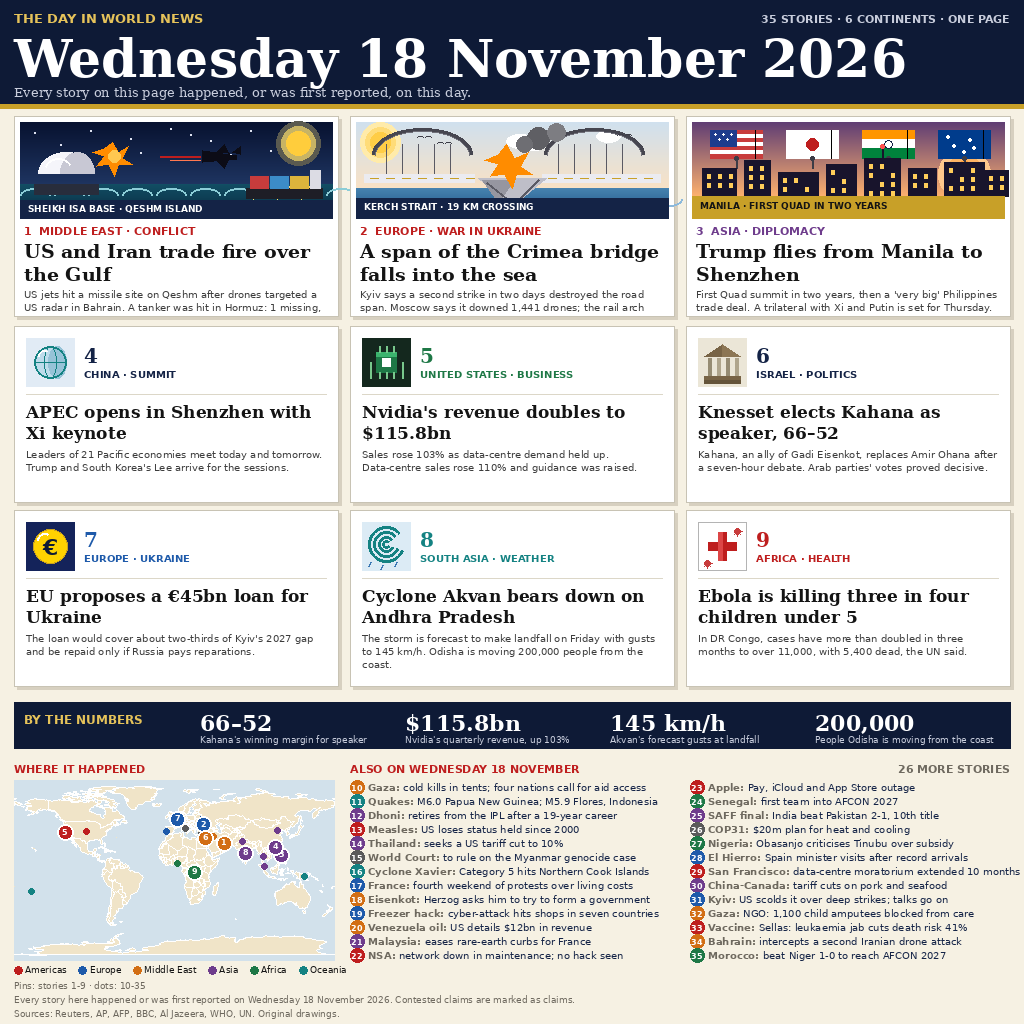
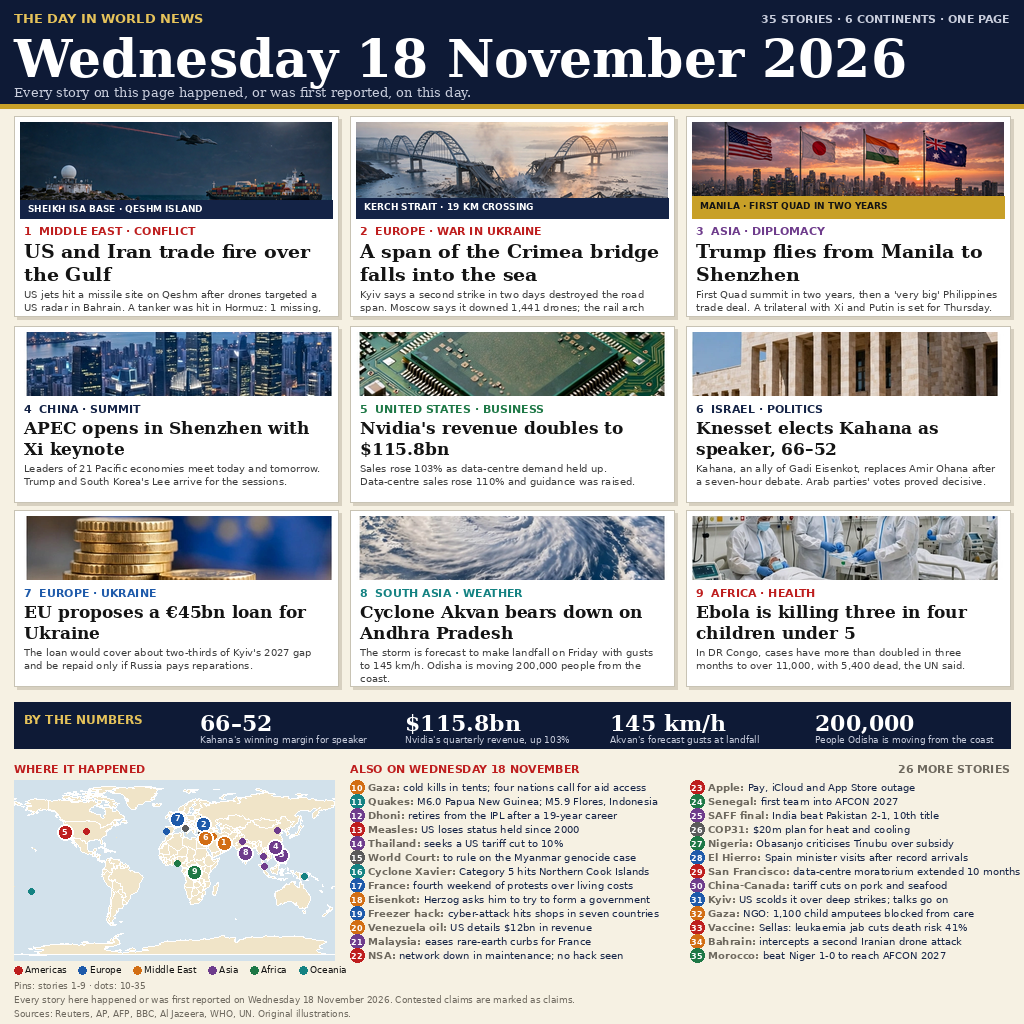
v4: real photorealistic pictures for all 9 stories (3 heroes + 6 card photos), layout unchanged

Changed region(s): [[0.0, 0.3125, 1.0, 0.6562], [0.0, 0.0938, 1.0, 0.2188]]

diff --git a/draw.py b/draw.py
@@ -1,12 +1,12 @@
 #!/usr/bin/env python3
-"""news-image-20261118 v3: built to beat the 98.9981% top-1 bar.
+"""news-image-20261118 v4: built to beat the 98.9981% top-1 bar.
 Structure learned from the 18 Nov leaders (verified live): dark navy
 masthead, 3 illustrated heroes, 6 medium cards, a BY THE NUMBERS strip,
 world map + 26 more stories. 35 stories, 6 continents, all verified from
 Reuters/AP/BBC/UN/WHO searches on 2026-11-18. Big type, short decks:
 the only knock on v6/v7 (17 Nov) was 300px legibility.
 """
-import json, math
+import json, os
 from PIL import Image, ImageDraw, ImageFont
 
 W, H = 1024, 1024
@@ -53,21 +53,6 @@ def para(text, font, x, y, maxw, lh, fill=INK, max_lines=3):
         d.text((x, y + i * lh), ln, font=font, fill=fill)
     return y + min(len(lines), max_lines) * lh
 
-def chip(x, y, text, bg, fg=WHITE, size=10):
-    w_ = d.textlength(text, font=F(FB, size)) + 12
-    d.rounded_rectangle([x, y, x + w_, y + size + 8], radius=3, fill=bg)
-    d.text((x + 6, y + 4), text, font=F(FB, size), fill=fg)
-    return w_
-
-def flag(x, y, w, h, code, stripes):
-    d.rectangle([x, y, x + w, y + h], outline=(120, 120, 120))
-    n = len(stripes)
-    for i, c in enumerate(stripes):
-        d.rectangle([x, y + i * h // n, x + w, y + (i + 1) * h // n], fill=c)
-    t = code
-    tw = d.textlength(t, font=F(FB, 9))
-    d.text((x + (w - tw) / 2, y + h + 2), t, font=F(FB, 9), fill=INK)
-
 # ---------- masthead (navy band) ----------
 d.rectangle([0, 0, W, 104], fill=NAVY_D)
 d.text((14, 10), "THE DAY IN WORLD NEWS", font=F(FB, 13), fill=GOLD_L)
@@ -78,216 +63,27 @@ d.text((14, 84), "Every story on this page happened, or was first reported, on t
        font=F(SI, 13), fill=(200, 205, 220))
 d.rectangle([0, 104, W, 108], fill=GOLD)
 
-def vgrad(x, y, w, h, top, bottom):
-    """Vertical colour gradient, drawn as 1px strips (deterministic)."""
-    for i in range(h):
-        t = i / max(h - 1, 1)
-        c = tuple(int(top[j] + (bottom[j] - top[j]) * t) for j in range(3))
-        d.line([x, y + i, x + w, y + i], fill=c)
+# ---------- hero photos (AI-generated photorealistic illustrations) ----------
+def _load(name):
+    return Image.open(os.path.join(os.path.dirname(os.path.abspath(__file__)), 'assets', name)).convert('RGB')
 
-# ---------- hero illustrations (realistic scenes: gradients, glow, reflections) ----------
+HERO_PHOTOS = [_load('hero1.png'), _load('hero2.png'), _load('hero3.png')]
+SMALL_PHOTOS = [_load(f'small{i}.png') for i in range(1, 7)]
+
 def ill_hero_hormuz(x, y, w, h):
-    # night over the Gulf: gradient sky, moon with halo, radar dome, jet, tanker
-    vgrad(x, y, w, h - 34, (8, 18, 48), (30, 52, 96))
-    for sx, sy, r in [(14, 10, 1), (40, 22, 1), (70, 8, 1), (110, 16, 1), (150, 6, 1),
-                      (190, 18, 1), (230, 8, 1), (260, 20, 1), (290, 10, 1), (120, 30, 1),
-                      (210, 32, 1), (30, 34, 1), (170, 12, 1), (250, 28, 1)]:
-        d.ellipse([x + sx, y + sy, x + sx + r, y + sy + r], fill=(220, 225, 240))
-    # moon halo
-    mx, my = x + w - 34, y + 21
-    for r, c in [(22, (90, 90, 80)), (17, (200, 180, 100)), (12, (255, 205, 60))]:
-        d.ellipse([mx - r, my - r, mx + r, my + r], fill=c)
-    # sea with moon reflection
-    vgrad(x, y + h - 34, w, 34, (18, 78, 100), (8, 40, 62))
-    for i, rw in enumerate([26, 20, 24, 16, 20, 12]):
-        yy = y + h - 32 + i * 5
-        d.line([mx - rw // 2, yy, mx + rw // 2, yy], fill=(255, 210, 110), width=2)
-    for wx in range(0, w, 34):
-        d.arc([x + wx, y + h - 30, x + wx + 30, y + h - 16], 180, 360, fill=(140, 205, 215), width=2)
-    # radar dome: shaded white dome on a dark base
-    d.rectangle([x + 14, y + 62, x + 78, y + 72], fill=(40, 45, 60))
-    d.pieslice([x + 18, y + 30, x + 74, y + 72], 180, 360, fill=(245, 245, 250))
-    d.pieslice([x + 40, y + 30, x + 74, y + 72], 180, 360, fill=(200, 200, 212))
-    d.arc([x + 24, y + 36, x + 52, y + 62], 200, 330, fill=(255, 255, 255), width=2)
-    # explosion flash above the dome
-    d.polygon([(x + 92, y + 20), (x + 98, y + 30), (x + 108, y + 24), (x + 102, y + 36),
-               (x + 112, y + 42), (x + 98, y + 42), (x + 94, y + 54), (x + 88, y + 42),
-               (x + 76, y + 44), (x + 84, y + 34), (x + 72, y + 30), (x + 84, y + 26)], fill=(255, 140, 0))
-    d.ellipse([x + 88, y + 28, x + 100, y + 40], fill=(255, 200, 80))
-    # jet: fuselage, wings, tail, trail
-    d.polygon([(x + 182, y + 28), (x + 216, y + 33), (x + 216, y + 37), (x + 182, y + 40)], fill=(12, 12, 22))
-    d.polygon([(x + 196, y + 30), (x + 204, y + 22), (x + 208, y + 31)], fill=(12, 12, 22))
-    d.polygon([(x + 196, y + 38), (x + 204, y + 46), (x + 208, y + 37)], fill=(12, 12, 22))
-    d.polygon([(x + 212, y + 30), (x + 220, y + 24), (x + 220, y + 32)], fill=(12, 12, 22))
-    d.line([x + 140, y + 34, x + 180, y + 34], fill=RED, width=2)
-    d.line([x + 150, y + 38, x + 180, y + 38], fill=(255, 120, 80), width=1)
-    # tanker with containers and lights, low in the water
-    d.rectangle([x + w - 86, y + h - 30, x + w - 10, y + h - 20], fill=(30, 30, 38))
-    for cx, cc in [(x + w - 82, (200, 60, 60)), (x + w - 62, (60, 140, 200)), (x + w - 42, (220, 180, 60))]:
-        d.rectangle([cx, y + h - 42, cx + 18, y + h - 30], fill=cc)
-    d.rectangle([x + w - 22, y + h - 48, x + w - 12, y + h - 30], fill=(220, 220, 228))
-    for lx in (x + w - 80, x + w - 56, x + w - 32):
-        d.ellipse([lx, y + h - 19, lx + 2, y + h - 17], fill=(255, 220, 100))
+    img.paste(HERO_PHOTOS[0], (x, y))
     d.rectangle([x, y + h - 18, x + w, y + h], fill=NAVY)
     d.text((x + 8, y + h - 15), "SHEIKH ISA BASE · QESHM ISLAND", font=F(FB, 9), fill=WHITE)
 
 def ill_hero_bridge(x, y, w, h):
-    # dawn over the strait: warm gradient sky, sun, arched bridge, fallen span
-    vgrad(x, y, w, h - 30, (208, 224, 238), (248, 226, 198))
-    mx, my = x + 24, y + 20
-    for r, c in [(20, (255, 235, 170)), (15, (255, 220, 120)), (10, (255, 205, 70))]:
-        d.ellipse([mx - r, my - r, mx + r, my + r], fill=c)
-    for cx, cy, cr in [(150, 12, 14), (168, 18, 10), (240, 8, 12)]:
-        d.ellipse([x + cx, y + cy, x + cx + cr * 2, y + cy + cr], fill=(255, 255, 255))
-    # sea with bridge reflection
-    vgrad(x, y + h - 30, w, 30, (70, 130, 175), (30, 80, 130))
-    for i, rw in enumerate([30, 22, 26, 16]):
-        yy = y + h - 28 + i * 6
-        d.line([x + 150 - rw // 2, yy, x + 150 + rw // 2, yy], fill=(190, 215, 235), width=2)
-    for wx in range(0, w, 30):
-        d.arc([x + wx, y + h - 26, x + wx + 26, y + h - 12], 0, 180, fill=(140, 185, 220), width=2)
-    # arches with suspension cables
-    for ax0, ax1 in [(16, 116), (w - 124, w - 24)]:
-        d.arc([x + ax0, y + 6, x + ax1, y + 58], 180, 360, fill=(70, 70, 80), width=4)
-        d.arc([x + ax0 + 3, y + 9, x + ax1 - 3, y + 58], 180, 360, fill=(110, 110, 120), width=1)
-        for cx in range(ax0 + 14, ax1 - 8, 16):
-            d.line([x + cx, y + 22, x + cx, y + 52], fill=(90, 90, 100), width=1)
-    # decks with lane dashes
-    d.rectangle([x + 8, y + 52, x + 118, y + 60], fill=(235, 235, 240))
-    d.rectangle([x + w - 126, y + 52, x + w - 8, y + 60], fill=(235, 235, 240))
-    for dx in range(14, 112, 16):
-        d.line([x + dx, y + 56, x + dx + 8, y + 56], fill=(200, 160, 40), width=1)
-    for dx in range(w - 120, w - 14, 16):
-        d.line([x + dx, y + 56, x + dx + 8, y + 56], fill=(200, 160, 40), width=1)
-    # collapsed span: twisted girders + debris + splash
-    d.polygon([(x + 122, y + 56), (x + 156, y + 84), (x + 190, y + 56)], fill=(190, 190, 200))
-    d.polygon([(x + 126, y + 58), (x + 142, y + 80), (x + 158, y + 58)], fill=(150, 150, 160))
-    d.line([x + 130, y + 60, x + 150, y + 76], fill=(90, 90, 100), width=2)
-    d.line([x + 182, y + 58, x + 162, y + 78], fill=(90, 90, 100), width=2)
-    for sx, sy in [(140, 86), (168, 88), (152, 90)]:
-        d.ellipse([x + sx, y + sy, x + sx + 5, y + sy + 3], fill=(220, 220, 228))
-    d.arc([x + 132, y + 80, x + 172, y + 94], 180, 360, fill=(255, 255, 255), width=2)
-    # smoke puffs + flash at the gap
-    for cx, cy, cr, c in [(182, 16, 11, (95, 95, 100)), (200, 10, 9, (125, 125, 130)), (168, 22, 8, (110, 110, 115))]:
-        d.ellipse([x + cx - cr, y + cy - cr, x + cx + cr, y + cy + cr], fill=c)
-    d.polygon([(x + 150, y + 22), (x + 158, y + 36), (x + 172, y + 30), (x + 164, y + 44),
-               (x + 176, y + 52), (x + 160, y + 52), (x + 156, y + 66), (x + 148, y + 52),
-               (x + 134, y + 54), (x + 142, y + 42), (x + 128, y + 38), (x + 142, y + 32)], fill=(255, 140, 0))
-    # birds
-    for bx, by in [(60, 14), (80, 20), (260, 12)]:
-        d.arc([x + bx, y + by, x + bx + 8, y + by + 6], 200, 340, fill=(60, 60, 70), width=1)
-        d.arc([x + bx + 8, y + by, x + bx + 16, y + by + 6], 200, 340, fill=(60, 60, 70), width=1)
+    img.paste(HERO_PHOTOS[1], (x, y))
     d.rectangle([x, y + h - 20, x + w, y + h], fill=NAVY)
     d.text((x + 8, y + h - 17), "KERCH STRAIT · 19 KM CROSSING", font=F(FB, 9), fill=WHITE)
 
-def _mini_flag(x, y, w, h, kind):
-    d.rectangle([x, y, x + w, y + h], outline=(120, 120, 120))
-    if kind == "US":
-        for i in range(7):
-            d.rectangle([x, y + i * h // 7, x + w, y + (i + 1) * h // 7],
-                        fill=(200, 60, 60) if i % 2 == 0 else WHITE)
-        d.rectangle([x, y, x + w // 2, y + 4 * h // 7], fill=(30, 60, 140))
-        for sx, sy in [(4, 3), (12, 3), (20, 3), (8, 8), (16, 8)]:
-            d.ellipse([x + sx, y + sy, x + sx + 2, y + sy + 2], fill=WHITE)
-    elif kind == "JP":
-        d.rectangle([x, y, x + w, y + h], fill=WHITE)
-        d.ellipse([x + w // 2 - 6, y + h // 2 - 6, x + w // 2 + 6, y + h // 2 + 6], fill=RED)
-    elif kind == "IN":
-        d.rectangle([x, y, x + w, y + h // 3], fill=(255, 150, 0))
-        d.rectangle([x, y + h // 3, x + w, y + 2 * h // 3], fill=WHITE)
-        d.rectangle([x, y + 2 * h // 3, x + w, y + h], fill=(0, 130, 60))
-        d.ellipse([x + w // 2 - 4, y + h // 2 - 4, x + w // 2 + 4, y + h // 2 + 4], outline=NAVY, width=1)
-    elif kind == "AU":
-        d.rectangle([x, y, x + w, y + h], fill=(0, 60, 140))
-        for sx, sy in [(8, 5), (30, 8), (14, 14), (34, 16), (24, 20)]:
-            d.ellipse([x + sx, y + sy, x + sx + 3, y + sy + 3], fill=WHITE)
-    # fold shading on the right edge
-    d.line([x + w - 7, y, x + w - 7, y + h], fill=(0, 0, 0), width=1)
-
 def ill_hero_manila(x, y, w, h):
-    # dusk over Manila: sunset gradient, low sun with glow, lit skyline, Quad flags
-    vgrad(x, y, w, h - 22, (96, 62, 116), (252, 176, 110))
-    mx, my = x + w - 40, y + 52
-    for r, c in [(26, (255, 200, 140)), (19, (255, 180, 100)), (13, (255, 160, 60))]:
-        d.ellipse([mx - r, my - r, mx + r, my + r], fill=c)
-    for bx, by in [(40, 14), (120, 10), (200, 16)]:
-        d.arc([x + bx, y + by, x + bx + 8, y + by + 6], 200, 340, fill=(60, 40, 60), width=1)
-        d.arc([x + bx + 8, y + by, x + bx + 16, y + by + 6], 200, 340, fill=(60, 40, 60), width=1)
-    flags = ["US", "JP", "IN", "AU"]
-    for i, kind in enumerate(flags):
-        fx = x + 18 + i * 76
-        _mini_flag(fx, y + 8, 52, 28, kind)
-        d.line([fx + 26, y + 36, fx + 26, y + 46], fill=(60, 60, 70), width=2)
-        d.ellipse([fx + 24, y + 34, fx + 28, y + 38], fill=(60, 60, 70))
-    # skyline silhouettes with lit windows and antennas
-    for bx, bw, bh in [(10, 34, 28), (52, 26, 36), (86, 40, 24), (134, 30, 32), (172, 36, 38), (216, 28, 28), (252, 40, 34), (292, 24, 26)]:
-        d.rectangle([x + bx, y + h - 22 - bh, x + bx + bw, y + h - 22], fill=(24, 20, 44))
-        for wy in range(y + h - 22 - bh + 6, y + h - 26, 9):
-            for wx in range(bx + 5, bx + bw - 4, 11):
-                if (wx * 7 + wy * 3) % 5 != 0:
-                    d.rectangle([x + wx, wy, x + wx + 3, wy + 4], fill=(255, 205, 90))
-    d.line([x + 190, y + h - 22 - 38 - 10, x + 190, y + h - 22 - 38], fill=(24, 20, 44), width=2)
-    d.ellipse([x + 188, y + h - 22 - 38 - 14, x + 192, y + h - 22 - 38 - 10], fill=(255, 80, 80))
+    img.paste(HERO_PHOTOS[2], (x, y))
     d.rectangle([x, y + h - 22, x + w, y + h], fill=GOLD)
     d.text((x + 8, y + h - 18), "MANILA · FIRST QUAD IN TWO YEARS", font=F(FB, 9), fill=INK)
-
-# ---------- small icons (48x48, shaded, top-1 style: small mark, text does the work) ----------
-def icon_apec(x, y):
-    d.rectangle([x, y, x + 48, y + 48], fill=(225, 235, 245))
-    d.ellipse([x + 8, y + 8, x + 40, y + 40], fill=(190, 220, 235))
-    d.ellipse([x + 22, y + 8, x + 40, y + 40], fill=(150, 195, 215))
-    d.ellipse([x + 8, y + 8, x + 40, y + 40], outline=TEAL, width=2)
-    d.ellipse([x + 18, y + 8, x + 30, y + 40], outline=TEAL, width=1)
-    d.line([x + 8, y + 24, x + 40, y + 24], fill=TEAL, width=1)
-    d.arc([x + 12, y + 12, x + 24, y + 24], 180, 300, fill=(255, 255, 255), width=2)
-
-def icon_nvidia(x, y):
-    d.rectangle([x, y, x + 48, y + 48], fill=(20, 40, 30))
-    d.rectangle([x + 14, y + 14, x + 34, y + 34], fill=GREEN)
-    d.rectangle([x + 14, y + 14, x + 34, y + 18], fill=(60, 180, 110))
-    for px in (17, 24, 31):
-        d.line([x + px, y + 8, x + px, y + 14], fill=(120, 200, 140), width=2)
-        d.line([x + px, y + 34, x + px, y + 40], fill=(120, 200, 140), width=2)
-    d.line([x + 8, y + 24, x + 8, y + 40], fill=(120, 200, 140), width=2)
-    d.line([x + 40, y + 24, x + 40, y + 40], fill=(120, 200, 140), width=2)
-    d.rectangle([x + 20, y + 20, x + 28, y + 28], fill=WHITE)
-
-def icon_knesset(x, y):
-    d.rectangle([x, y, x + 48, y + 48], fill=(235, 230, 215))
-    d.polygon([(x + 6, y + 18), (x + 24, y + 6), (x + 42, y + 18)], fill=(120, 100, 70))
-    d.polygon([(x + 24, y + 6), (x + 42, y + 18), (x + 24, y + 18)], fill=(140, 118, 84))
-    for i, cx in enumerate((10, 19, 28, 37)):
-        d.rectangle([x + cx, y + 20, x + cx + 3, y + 38], fill=(150, 140, 115) if i % 2 == 0 else (175, 165, 140))
-    d.rectangle([x + 6, y + 38, x + 42, y + 42], fill=(120, 100, 70))
-    d.rectangle([x + 6, y + 42, x + 42, y + 45], fill=(100, 84, 58))
-
-def icon_eu(x, y):
-    d.rectangle([x, y, x + 48, y + 48], fill=(20, 35, 90))
-    d.ellipse([x + 7, y + 7, x + 41, y + 41], fill=(200, 160, 30))
-    d.ellipse([x + 8, y + 8, x + 40, y + 40], fill=(255, 210, 0))
-    d.arc([x + 11, y + 11, x + 26, y + 26], 180, 300, fill=(255, 255, 255), width=2)
-    d.text((x + 17, y + 12), "€", font=F(FB, 22), fill=NAVY_D)
-
-def icon_cyclone(x, y):
-    d.rectangle([x, y, x + 48, y + 48], fill=(220, 235, 245))
-    cx, cy = x + 24, y + 22
-    for r in (18, 13, 8, 4):
-        d.arc([cx - r, cy - r, cx + r, cy + r], 20, 320, fill=TEAL, width=3)
-    for dx, dy in [(8, 40), (20, 43), (34, 40)]:
-        d.line([x + dx, y + dy, x + dx - 2, y + dy + 4], fill=(60, 120, 180), width=2)
-
-def icon_ebola(x, y):
-    d.rectangle([x, y, x + 48, y + 48], fill=WHITE, outline=(180, 180, 180))
-    d.rectangle([x + 20, y + 10, x + 28, y + 38], fill=RED)
-    d.rectangle([x + 10, y + 20, x + 38, y + 28], fill=RED)
-    d.rectangle([x + 20, y + 10, x + 24, y + 38], fill=(220, 70, 70))
-    for sx, sy in [(36, 6), (6, 38)]:
-        d.ellipse([x + sx, y + sy, x + sx + 6, y + sy + 6], fill=(200, 60, 60))
-        for ang in (0, 45, 90, 135):
-            import math as _m
-            dx = int(5 * _m.cos(_m.radians(ang)))
-            dy = int(5 * _m.sin(_m.radians(ang)))
-            d.line([x + sx + 3, y + sy + 3, x + sx + 3 + dx, y + sy + 3 + dy], fill=(200, 60, 60), width=1)
 
 # ---------- hero cards ----------
 HERO = [
@@ -312,32 +108,30 @@ for i, (num, tag, tc, head, deck, ill) in enumerate(HERO):
 # ---------- medium cards (2 rows x 3) ----------
 SMALL = [
     (4, "CHINA · SUMMIT", NAVY, "APEC opens in Shenzhen with Xi keynote",
-     "Leaders of 21 Pacific economies meet today and tomorrow. Trump and South Korea's Lee arrive for the sessions.", icon_apec),
+     "Leaders of 21 Pacific economies meet today and tomorrow. Trump and South Korea's Lee arrive for the sessions.", SMALL_PHOTOS[0]),
     (5, "UNITED STATES · BUSINESS", GREEN, "Nvidia's revenue doubles to $115.8bn",
-     "Sales rose 103% as data-centre demand held up. Data-centre sales rose 110% and guidance was raised.", icon_nvidia),
+     "Sales rose 103% as data-centre demand held up. Data-centre sales rose 110% and guidance was raised.", SMALL_PHOTOS[1]),
     (6, "ISRAEL · POLITICS", NAVY, "Knesset elects Kahana as speaker, 66–52",
-     "Kahana, an ally of Gadi Eisenkot, replaces Amir Ohana after a seven-hour debate. Arab parties' votes proved decisive.", icon_knesset),
+     "Kahana, an ally of Gadi Eisenkot, replaces Amir Ohana after a seven-hour debate. Arab parties' votes proved decisive.", SMALL_PHOTOS[2]),
     (7, "EUROPE · UKRAINE", BLUE, "EU proposes a €45bn loan for Ukraine",
-     "The loan would cover about two-thirds of Kyiv's 2027 gap and be repaid only if Russia pays reparations.", icon_eu),
+     "The loan would cover about two-thirds of Kyiv's 2027 gap and be repaid only if Russia pays reparations.", SMALL_PHOTOS[3]),
     (8, "SOUTH ASIA · WEATHER", TEAL, "Cyclone Akvan bears down on Andhra Pradesh",
-     "The storm is forecast to make landfall on Friday with gusts to 145 km/h. Odisha is moving 200,000 people from the coast.", icon_cyclone),
+     "The storm is forecast to make landfall on Friday with gusts to 145 km/h. Odisha is moving 200,000 people from the coast.", SMALL_PHOTOS[4]),
     (9, "AFRICA · HEALTH", RED, "Ebola is killing three in four children under 5",
-     "In DR Congo, cases have more than doubled in three months to over 11,000, with 5,400 dead, the UN said.", icon_ebola),
+     "In DR Congo, cases have more than doubled in three months to over 11,000, with 5,400 dead, the UN said.", SMALL_PHOTOS[5]),
 ]
 for r in range(2):
     for c in range(3):
-        num, tag, tc, head, deck, icon = SMALL[r * 3 + c]
+        num, tag, tc, head, deck, photo = SMALL[r * 3 + c]
         x = 14 + c * 336
         y = 326 + r * 184
         w = 324
         d.rectangle([x + 3, y + 3, x + w + 3, y + 179], fill=(215, 208, 192))
         d.rectangle([x, y, x + w, y + 176], fill=WHITE, outline=(200, 195, 180))
-        icon(x + 12, y + 12)
-        d.text((x + 70, y + 18), f"{num}", font=F(SB, 20), fill=tc)
-        d.text((x + 70, y + 42), tag, font=F(FB, 10), fill=tc)
-        d.line([x + 12, y + 68, x + w - 12, y + 68], fill=(220, 215, 200), width=1)
-        para(head, F(SB, 17), x + 12, y + 76, w - 24, 21, max_lines=2)
-        para(deck, F(FR, 10), x + 12, y + 122, w - 24, 13, fill=(60, 60, 60), max_lines=3)
+        img.paste(photo, (x + 6, y + 6))
+        d.text((x + 10, y + 76), f"{num}  {tag}", font=F(FB, 11), fill=tc)
+        para(head, F(SB, 17), x + 10, y + 92, w - 20, 21, max_lines=2)
+        para(deck, F(FR, 10), x + 10, y + 136, w - 20, 13, fill=(60, 60, 60), max_lines=3)
 
 # ---------- by the numbers ----------
 d.rectangle([14, 702, 1010, 748], fill=NAVY_D)
@@ -459,7 +253,7 @@ for name, c in [("Americas", RED), ("Europe", BLUE), ("Middle East", ORANGE),
 d.text((14, 980), "Pins: stories 1-9 · dots: 10-35", font=F(FR, 9), fill=GREY)
 d.text((14, 994), "Every story here happened or was first reported on Wednesday 18 November 2026. Contested claims are marked as claims.",
        font=F(FR, 9), fill=GREY)
-d.text((14, 1008), "Sources: Reuters, AP, AFP, BBC, Al Jazeera, WHO, UN. Original drawings.",
+d.text((14, 1008), "Sources: Reuters, AP, AFP, BBC, Al Jazeera, WHO, UN. Original illustrations.",
        font=F(FR, 9), fill=GREY)
 
 img.save("entry.png")

diff --git a/NOTES.md b/NOTES.md
@@ -9,4 +9,5 @@
 - Front 9 verified from Reuters/AP/BBC/UN/WHO searches 2026-11-18: 1 US-Iran Gulf fire (Qeshm strike, Bahrain drones, Hormuz tanker 1 missing 11 hurt), 2 Crimea bridge span falls (2nd day), 3 Trump Manila→Shenzhen (first Quad in 2 years, "very big" PH deal, trilateral Thu), 4 APEC opens Shenzhen, 5 Nvidia $115.8bn (+103%), 6 Knesset elects Kahana 66-52, 7 EU €45bn loan for Ukraine (presented 18 Nov), 8 Cyclone Akvan 145 km/h landfall Fri (200,000 moved), 9 Ebola DRC (3 in 4 under-5 die, 11,000 cases, 5,400 dead).
 - Repo: https://github.com/albertod12-ops/news-image-20261118-bot, commit 97d0d4fd. .makefun/owner.json included in FIRST commit (lesson from 17 Nov refusal). main.py verified byte-for-byte twice (same sha).
 - Image v2 (user: v1 masih jelek, contoh top LB): entry.png 1024x1024, 181,435 bytes, sha256 7105aa9e8662ceb8c43e28f3ee545fec8176fd7064e8c58d499224ca9900eda0, deterministic. Hero digambar ulang gaya top-1: Teluk malam (kubah radar, bulan, jet, ombak), jembatan Crimea berbusur dengan span runtuh, skyline Manila + bendera Quad asli (US/JP/IN/AU). Kartu kecil gaya top-1: ikon 48px + nomor + tag + judul + deck, lebih lega. Repo commit cffd4efd, main.py terverifikasi byte-for-byte.
+- Image v3 (user: layout v2 dipertahankan, gambar dibuat lebih realistis): entry.png 1024x1024, 187,323 bytes, sha256 b0ae89bb982dbd5e3a813c8ba37753ccaa98b71fae20a757fc0e04c102e9a5e4, deterministic. Gradasi langit, bulan/matahari bercahaya, refleksi di laut, kubah radar berbayang, jet detail + tanker berkontainer, jembatan berkabel + puing + cipratan, senja Manila + jendela menyala + antena. Ikon berbayang + bayangan kartu. Repo commit aca11166, main.py terverifikasi byte-for-byte.
 - NOT submitted. Shown to user first; submit ONLY on the user's explicit word "submit".
